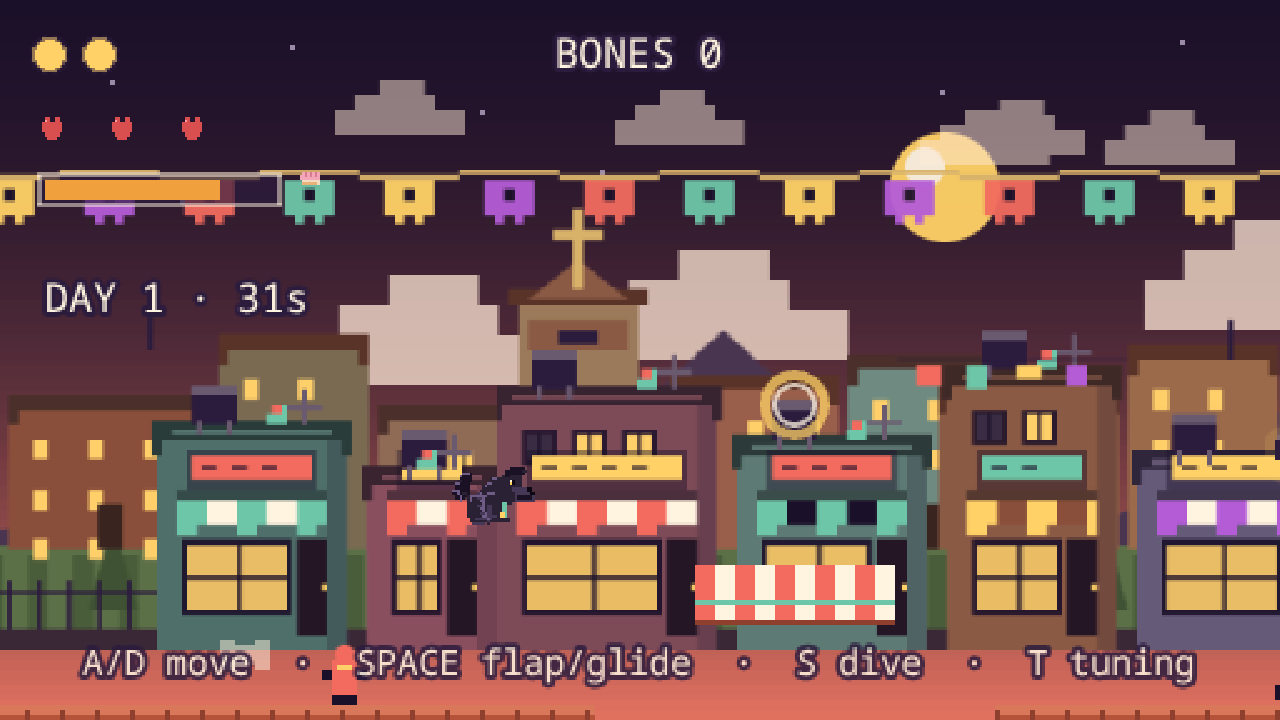
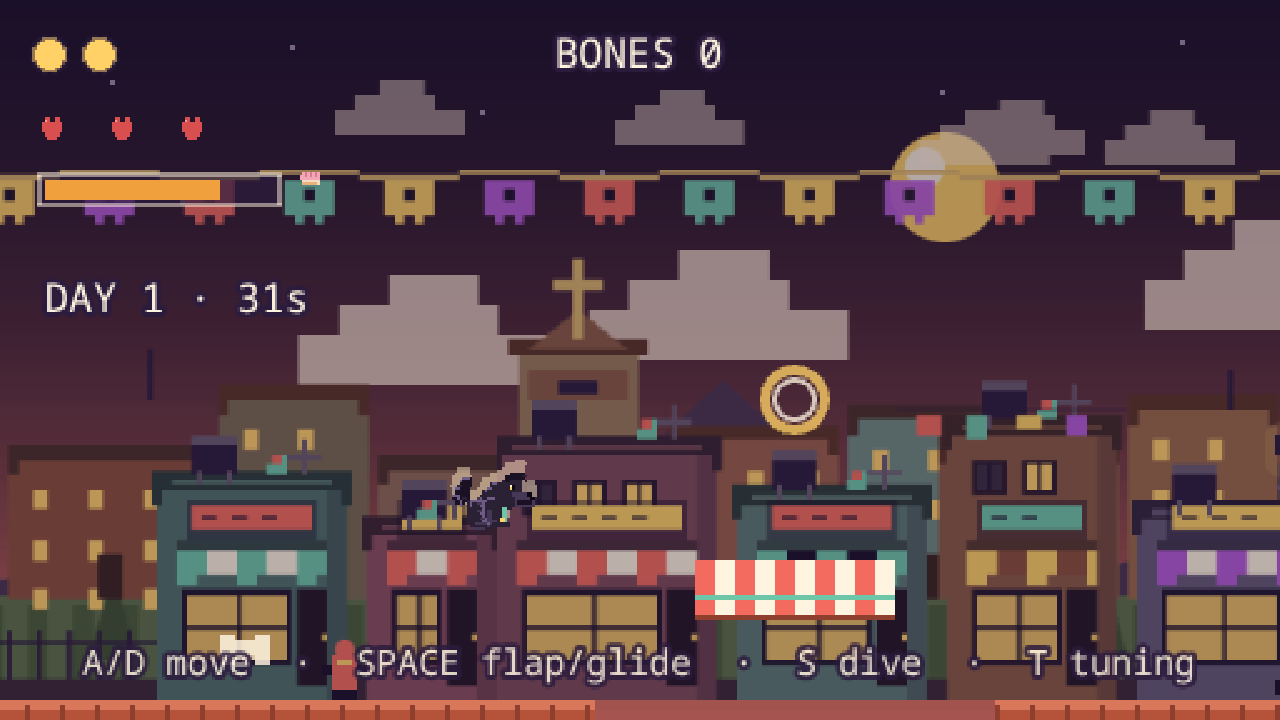
Anchor city backdrop to street and boost sprite contrast

diff --git a/src/scenes/Level1.js b/src/scenes/Level1.js
@@ -204,6 +204,7 @@ export default class Level1 extends Phaser.Scene {
     this.town?.setSize(W, 100 * S);
     this.nearTown?.setSize(W, 100 * S);
     this.banner?.setSize(W, 14 * S);
+    this.envHaze?.setPosition(W / 2, 72 * S).setSize(W, 144 * S);
     this.nightOverlay?.setPosition(W / 2, 72 * S).setSize(W, 144 * S);
 
     if (this.boneText) this.boneText.x = W / 2;
@@ -284,15 +285,15 @@ export default class Level1 extends Phaser.Scene {
       .setAlpha(0.75);
 
     this.town = this.add
-      .tileSprite(0, 30 * S, W, 100 * S, 'town')
+      .tileSprite(0, 500 * S, W, 100 * S, 'town')
       .setOrigin(0, 0)
-      .setScrollFactor(0)
+      .setScrollFactor(0, 1)
       .setDepth(-20);
 
     this.nearTown = this.add
-      .tileSprite(0, 30 * S, W, 100 * S, 'nearTown')
+      .tileSprite(0, 500 * S, W, 100 * S, 'nearTown')
       .setOrigin(0, 0)
-      .setScrollFactor(0)
+      .setScrollFactor(0, 1)
       .setDepth(-19);
 
     this.banner = this.add
@@ -308,6 +309,14 @@ export default class Level1 extends Phaser.Scene {
       .setScrollFactor(0)
       .setDepth(60)
       .setAlpha(0);
+
+    // Push the city back visually. This sits above the background and the
+    // parked street dressing but below the platform/props and every gameplay
+    // sprite, so the playable street stays bright and readable.
+    this.envHaze = this.add
+      .rectangle(W / 2, 72 * S, W, 144 * S, 0x1b1029, 0.3)
+      .setScrollFactor(0)
+      .setDepth(0.5);
   }
 
   createStreetDressing() {
@@ -1359,6 +1368,7 @@ export default class Level1 extends Phaser.Scene {
     this.dog.setTexture('dogSit');
     this.dog.setRotation(0);
     this.dog.clearTint();
+    this.dog.outline?.setVisible(false);
     this.dog.tongue.setVisible(false);
 
     this.hideEndHud();
@@ -1440,6 +1450,7 @@ export default class Level1 extends Phaser.Scene {
     this.dog.setVelocity(0, 0);
     this.dog.setTexture('dogSit');
     this.dog.setRotation(0);
+    this.dog.outline?.setVisible(false);
     this.dog.tongue.setVisible(false);
 
     this.hideEndHud();

diff --git a/src/objects/Dog.js b/src/objects/Dog.js
@@ -29,6 +29,17 @@ export default class Dog extends Phaser.Physics.Arcade.Sprite {
     this.body.setSize(10 * S, 13 * S).setOffset(3 * S, 2 * S);
     this.body.setMaxVelocity(430 * S, 1200 * S);
 
+    // A slightly larger cream silhouette sits behind the black chow so he
+    // stays readable against shop windows and parked cars. The dog itself
+    // covers the centre, leaving only a thin rim light around the pose.
+    this.outline = scene.add
+      .sprite(x, y, 'dog')
+      .setDepth(9.5)
+      .setTintFill(0xffe6c0)
+      .setAlpha(0.5)
+      .setScale(1.06)
+      .setVisible(false);
+
     this.controls = { cursors: null, wasd: null };
 
     this.facing = 1;
@@ -105,6 +116,7 @@ export default class Dog extends Phaser.Physics.Arcade.Sprite {
 
   update(dtMs) {
     if (this.dead) {
+      this.outline.setVisible(false);
       this.tongue.setVisible(false);
       return;
     }
@@ -237,6 +249,14 @@ export default class Dog extends Phaser.Physics.Arcade.Sprite {
     } else {
       this.setRotation(0);
     }
+
+    this.outline
+      .setPosition(this.x, this.y)
+      .setTexture(this.texture.key)
+      .setFlipX(this.flipX)
+      .setRotation(this.rotation)
+      .setAlpha(this.alpha * 0.5)
+      .setVisible(true);
 
     this.updateTongue(dt, onGround);
 

diff --git a/src/scenes/Title.js b/src/scenes/Title.js
@@ -43,6 +43,9 @@ export default class Title extends Phaser.Scene {
     this.add.image(W * 0.05, groundY, 'streetlamp').setOrigin(0.5, 1);
     this.add.image(W * 0.95, groundY, 'streetlamp').setOrigin(0.5, 1);
 
+    // atmospheric haze: city recedes, sitting dog and title copy stay clear
+    this.add.rectangle(W / 2, H / 2, W, H, 0x1b1029, 0.3);
+
     // a very good dog, sitting and panting
     this.dogGroup = this.add.container(W / 2, 92 * S).setDepth(3);
     const dog = this.add.sprite(0, 0, 'dogSit').setScale(2);

diff --git a/DESIGN.md b/DESIGN.md
@@ -199,7 +199,9 @@ Ground line y=600. The background is a tiled town: mountains, fields/agave,
 low houses with lit windows, a church tower and cross, papel picado. A closer,
 faster parallax storefront row adds awnings, balconies and signs; parked cars,
 bicycles, hydrants, planters and street lamps line the far curb (background
-only, no collision).
+only, no collision). The town layers are anchored to the street's world Y so
+they sit on the sidewalk, and a light haze plus a cream rim on Bonjo keep the
+play lane readable.
 
 Beat sheet:
 

diff --git a/README.md b/README.md
@@ -164,6 +164,7 @@ there to make them permanent.
 - Wind rings that refill flaps mid-air
 - Bones, concha food, checkpoint balloon, a safe **porch**
 - La Cuadra: adobe/terracotta town, church, closer storefronts, parked cars, bicycles, papel picado, fields and agave
+- Atmospheric haze and a cream rim light keep Bonjo and the hazards readable
 - Pits cost a heart and respawn; 0 hearts ends the run
 - Camera look-ahead; synthesized SFX
 - All art generated in code (no image/audio files)
